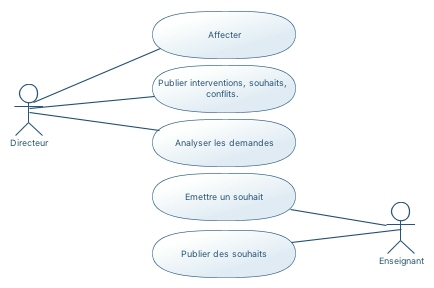
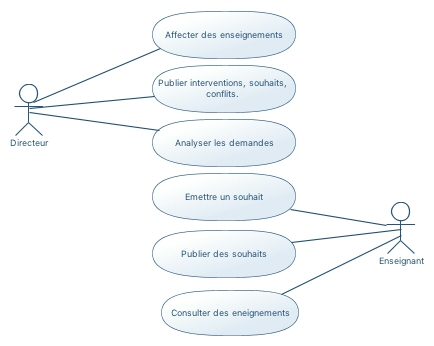
Nouveau diagrammes de cas d’utilisation et de classes.

diff --git a/src/doc/latex/analyse.tex b/src/doc/latex/analyse.tex
@@ -26,9 +26,9 @@ Dans cette section, nous spécifions  l'ensemble des cas d'utilisation relatifs 
 
 Dans les sections suivantes, nous fournissons une description plus détaillée de chacun des cas d'utilisation.
 
-\subsection{UC\---Affecter des enseignements}
+\subsection{UC---Affecter des enseignements}
 
-\begin{usecase}{Affecter des enseignements}
+\begin{usecase}{Affecter des enseignements}\label{usecase:affecter}
 \begin{information}
 
  \item[Goal in the context:] Le chef de département réalise la confirmation d'un souhait d'un enseignant (validation) ou impose une intervention dans le département à un enseignant (affectation "forcée"). 
@@ -211,9 +211,10 @@ L'imposition d'une intervention à un enseignant crée une instance de la classe
 
 \end{comment}
 
-\subsection{UC\---Publier des interventions, des souhaits et des possibles conflits}
+\subsection{UC---Publier des interventions, des souhaits et des possibles conflits}
 
 \begin{usecase}{Publier des interventions, des souhaits et des possibles conflits}
+\label{usecase:publier}
 \begin{information}
 	
 \item[{Goal in the context:}]
@@ -247,7 +248,7 @@ L'exécution de ce cas d'utilisation peut faire apparaître de nouveaux conflits
 
 \end{usecase}
 
- \subsection{UC\---Analyser des demandes}
+ \subsection{UC---Analyser des demandes}
 
 \begin{usecase}{Analyser des demandes}\label{usecase:analyse}
 
@@ -285,7 +286,7 @@ L'exécution de ce cas d'utilisation peut faire apparaître de nouveaux conflits
 
 \end{usecase}
 
-\subsection{UC\---Émettre un souhait}
+\subsection{UC---Émettre un souhait}
 
 \begin{usecase}{\'Emettre un souhait}\label{usecase:souhait}
 \begin{information}
@@ -396,6 +397,7 @@ Après l'émission du souhait, une instance de la classe \code{Voeu} est créée
 
 \subsection{UC---Publier des souhaits}
 \begin{usecase}{Publier des souhaits}
+\label{usecase:publier}
 \begin{information}
 	\item[Goal in the context:] L'enseignant transmet ses souhaits (préalablement sélectionnés) au chef de département qui sera lui même apte, dans un deuxième temps, à les rendre visibles à l'ensemble des enseignants.
 Un souhait concerne un vœux fait sur des enseignements disponibles (i.e. non affectés), une intervention extérieure au département ou bien encore une demande caractérisée comme étant spéciale (congé, remplacement, \dots). 
@@ -424,9 +426,10 @@ Un souhait concerne un vœux fait sur des enseignements disponibles (i.e. non af
  \end{extension}
 
 
- \subsection{UC7 - Consulter des enseignements}
+ \subsection{UC---Consulter des enseignements}
 
 \begin{usecase}{Consulter des enseignements}
+\label{usecase:consulter}
 \begin{information}
 	\item[Goal in the context:]  L'enseignant doit être capable de visualiser les enseignements afin de consulter ou de modifier ses souhaits.
  Ainsi, des critères de tri sont mis à sa disposition pour personnaliser sa vue des enseignements dans le système "\projet": par module, par enseignement d'un module, par enseignant, ou par nombre d'heures.\\

diff --git a/src/doc/latex/exigences.tex b/src/doc/latex/exigences.tex
@@ -307,37 +307,32 @@ Les tests unitaires doivent utiliser JUnit (version > 4.10) ou son équivalent p
 %Lorsque des outils de développement, tels des référentiels d’exigences ou des outils de modélisation sont utilisés, on peut référer à ces données en indiquant l’endroit et le nom de cet outil]
 
 
-\subsection{UC1\---Réaliser une affectation}
+\subsection{\nameref{usecase:affecter}}
 \begin{requirement}[Affectation]
 	Confirmation, par le chef du département, d'un souhait d'un enseignant.
 \end{requirement}
 
-\subsection{UC2\---Publier des interventions, souhaits et conflits}
+\subsection{\nameref{usecase:publier}}
 \begin{requirement}[Publication des interventions]
 	Le système doit permettre au chef du département de publier des interventions, des souhaits et des conflits.
 \end{requirement}
 
-\subsection{UC3\---Consulter l'historique des services}
-\begin{requirement}[Historique]
-	Le système doit permettre au chef du département de consulter l'historique des services.
-\end{requirement}
-
-\subsection{UC4\---Effectuer une analyse statique}
+\subsection{\nameref{usecase:analyse}}
 \begin{requirement}[Analyse]
 	Le système doit aider le chef du département à analyser les souhaits pour détecter des enseignants en sous-services et des modules non pourvus. 
 \end{requirement}
 
-\subsection{UC5\---Emettre un souhait}
+\subsection{\nameref{usecase:souhait}}
 \begin{requirement}[Expression de souhaits]
 	Le système doit permettre aux enseignants d'émettre ses souhaits d'enseignement.
 \end{requirement}
 
-\subsection{UC6\---Publier des souhaits}
+\subsection{\nameref{usecase:publier}}
 \begin{requirement}[Publication de souhaits]
 	Le système doit permettre aux enseignants de publier leurs souhaits.
 \end{requirement}
 
-\subsection{UC7\---Consulter des enseignements}
+\subsection{\nameref{usecase:consulter}}
 \begin{requirement}[Consultation des enseignements]
 	Le système doit permettre aux enseignants de consulter les enseignements.
 \end{requirement}

diff --git a/src/doc/latex/sujet-projet.tex b/src/doc/latex/sujet-projet.tex
@@ -22,7 +22,7 @@
 
 \pagestyle{fancy}
 \fancyhf{}
- \lhead{Master Informatique Alma}
+ \lhead{Master Informatique Alma/Atal}
  \chead{\includegraphics*[width=7mm]{fig/logo_mini.jpg}}
  \rhead{Université de Nantes}
  \cfoot{\scriptsize{G. Sunyé}}
@@ -34,7 +34,7 @@
 \fancypagestyle{empty}{
  \fancyhf{}
  \fancyhead[R]{Team \#3243 Page \thepage  { }of \pageref{LastPage}}
- \lhead{Master Informatique Alma}
+ \lhead{Master Informatique Alma/Atal}
  \chead{\includegraphics*[width=7mm]{fig/logo_mini.jpg}}
  \rhead{Université de Nantes}
  \cfoot{\scriptsize{G. Sunyé}}
